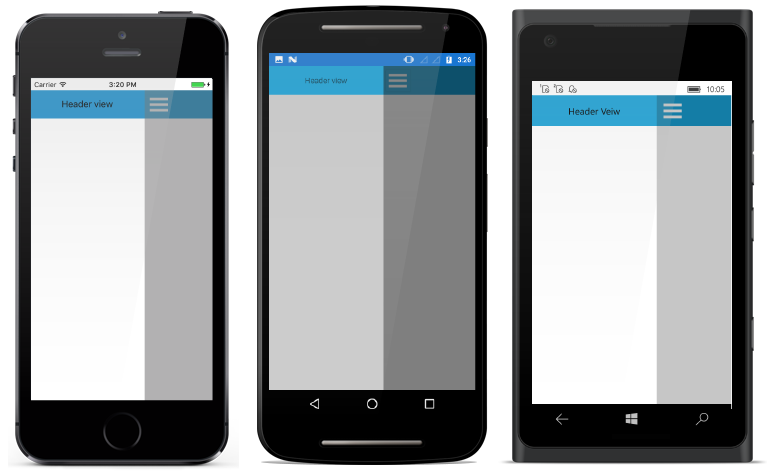
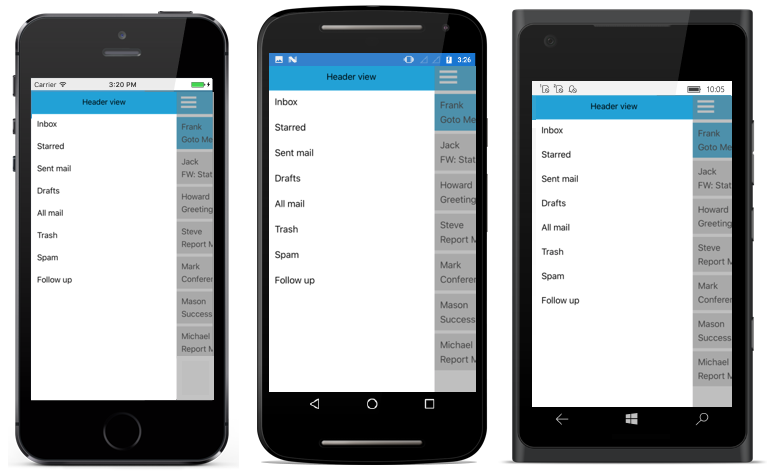
Added navigation drawer changes in UG

diff --git a/Xamarin/SfNavigationDrawer/Multi-drawer.md b/Xamarin/SfNavigationDrawer/Multi-drawer.md
@@ -8,19 +8,18 @@ documentation: ug
 ---
 
 
-# Multi drawer
+# Multi Drawer
 
-The navigation drawer allows the user to provide the multi drawer contents and each of them can be opened with their opening methods.
+The navigation drawer allows users to open the drawer on multiple sides with different toggle methods. The DrawerSettings class and its properties need to be used when users need to provide multiple drawer. The multiple drawers can be implemented using the following drawer settings.
 
-*	Default drawer settings
+* Default drawer settings
+* Secondary drawer settings
 
-*	Secondary drawer settings
-
-N> Header and Footer content are optional but Drawer content is mandatory to allocate space for the drawer.
+N> The header and footer content are optional, but the drawer content is mandatory to allocate space for the drawer.
 		
 ## Default drawer settings
 
-The user can provided the default drawer contents inside default drawer settings. The below code illustrates the code for default drawer settings.
+Implement the default drawer using the default drawer settings class. The following code sample demonstrates how to set the default drawer settings's properties inside the DrawerSettings class.
 
 {% tabs %}
 
@@ -55,13 +54,16 @@ navigationDrawer.DefaultDrawerSettings = defaultDrawerSettings;
 
 {% endtabs %}
 
-### Default drawer Header view
+N> The navigation drawer works with the value given for the properties inside the DrawerSettings class when using the default drawer settings.
 
-The header view of the default drawer can be provided using the below codes. 
+### Default drawer header view
+
+The header content can be provided to the default drawer using the `DrawerHeaderView` property inside the DrawerSettings class of DefaultDrawerSettings. The following code demonstrates how to set header content for the default drawer.
 
 {% tabs %}
 
 {% highlight xaml %}
+   <navigationdrawer:SfNavigationDrawer.DefaultDrawerSettings>
     <Grid BackgroundColor="#1aa1d6">
     <Grid.RowDefinitions>
     <RowDefinition Height="120"/>
@@ -70,12 +72,14 @@ The header view of the default drawer can be provided using the below codes.
         <Label Text="Syncfusion Xamarin Products"  HorizontalTextAlignment="Center" HorizontalOptions="Center" FontSize="20" TextColor="White"/>
      </Grid>
     </navigationdrawer:DrawerSettings.DrawerHeaderView>
+    </navigationdrawer:SfNavigationDrawer.DefaultDrawerSettings>
 
 
 {% endhighlight %}
 
 {% highlight c# %}
 
+    DrawerSettings defaultDrawerSettings = new DrawerSettings();
     Grid headerLayout = new Grid();
     headerLayout.BackgroundColor = Color.FromHex("#1aa1d6");
     Label header = new Label();
@@ -90,9 +94,9 @@ The header view of the default drawer can be provided using the below codes.
 
 {% endtabs %}      
 
-### Default drawer Content view
+### Default drawer content view
 
-The drawer content view of the default drawer can be provided using the below codes. 
+The drawer content can be provided to the default drawer using the `DrawerContentView` property inside the DrawerSettings class. The following code demonstrates how to set drawer content to the default drawer.
 
 {% tabs %}
 
@@ -109,6 +113,7 @@ The drawer content view of the default drawer can be provided using the below co
 {% endhighlight %}
 {% highlight c# %}
 
+DrawerSettings defaultDrawerSettings = new DrawerSettings();
 Grid contentLayout = new Grid();
 contentLayout.BackgroundColor = Color.FromHex("#1aa1d6");
 Label content = new Label();
@@ -123,14 +128,15 @@ defaultDrawerSettings.DrawerContentView = contentLayout;
 
 {% endtabs %}   
 
-### Default drawer Footer view
+### Default drawer footer view
 
-The footer view of the default drawer can be provided using the below codes. 
+The footer content can be provided to the default drawer using the `DrawerFooterView` property inside the DrawerSettings class of DefaultDrawerSettings. The following code demonstrates how to set footer content to the default drawer.
 
 {% tabs %}
 
 {% highlight xaml %}
     
+    <navigationdrawer:SfNavigationDrawer.DefaultDrawerSettings>   
     <navigationdrawer:DrawerSettings.DrawerFooterView>
     <Grid BackgroundColor="#1aa1d6">
     <Grid.RowDefinitions>
@@ -139,12 +145,14 @@ The footer view of the default drawer can be provided using the below codes.
         <Label Text="Close" Grid.Row="0" HorizontalTextAlignment="Center" HorizontalOptions="Center" FontSize="20" TextColor="White"/>
     </Grid>
     </navigationdrawer:DrawerSettings.DrawerFooterView>
+    </navigationdrawer:SfNavigationDrawer.DefaultDrawerSettings>
 
 
 {% endhighlight %}
 
 {% highlight c# %}
 
+DrawerSettings defaultDrawerSettings = new DrawerSettings();
 Grid footerLayout = new Grid();
 footerLayout.BackgroundColor = Color.FromHex("#1aa1d6");
 Label footer = new Label();
@@ -160,7 +168,7 @@ defaultDrawerSettings.DrawerFooterView = footerLayout;
 
 ## Secondary drawer settings   
 
-The user can provided the secondary drawer contents inside secondary drawer settings. The below code illustrates the code for secondary drawer settings.
+Implement the secondary drawer using the secondary drawer settings class. Its properties and functionalities are same as the default drawer. The secondary drawer can be set to different positions similar to the default drawer. The following code demonstrates how to set the secondary drawer settings's properties inside the DrawerSettings class.
 
 {% tabs %}
 
@@ -195,14 +203,17 @@ navigationDrawer.SecondaryDrawerSettings = secondaryDrawer;
 
 {% endtabs %}
 
-### Secondary drawer Header view
+N> When the default drawer and the secondary drawer are set to the same position, the default drawer will open on swiping.
 
-The header view of the secondary drawer can be provided using the below codes. 
+### Secondary drawer header view
+
+The header content can be provided to the secondary drawer using the `DrawerHeaderView` property inside the DrawerSettings class of SecondaryDrawerSettings. The following code demonstrates how to set the header content to the secondary drawer.
 
 {% tabs %}
 
 {% highlight xaml %}
     
+    <navigationdrawer:SfNavigationDrawer.SecondaryDrawerSettings>
     <navigationdrawer:DrawerSettings.DrawerHeaderView>
     <Grid BackgroundColor="#1aa1d6">
     <Grid.RowDefinitions>
@@ -211,11 +222,13 @@ The header view of the secondary drawer can be provided using the below codes.
         <Label Text="Syncfusion Enterprise solution" Grid.Row="0" HorizontalTextAlignment="Center" HorizontalOptions="Center" FontSize="20" TextColor="White"/>
     </Grid>
     </navigationdrawer:DrawerSettings.DrawerHeaderView>
+    </navigationdrawer:SfNavigationDrawer.SecondaryDrawerSettings>
 
 {% endhighlight %}
 
 {% highlight c# %}
 
+DrawerSettings secondaryDrawer = new DrawerSettings();
 Grid secondary = new Grid();
 secondary.BackgroundColor = Color.FromHex("#1aa1d6");
 Label header = new Label();
@@ -230,9 +243,9 @@ secondaryDrawer.DrawerHeaderView = secondary;
 
 {% endtabs %}      
 
-### Secondary drawer Content view
+### Secondary drawer content view
 
-The drawer content view of the secondary drawer can be provided using the below codes. 
+The drawer content can be provided to the default drawer using the `DrawerContentView` property inside the DrawerSettings class of SecondaryDrawerSettings. The following code demonstrates how to set the drawer content to the secondary drawer.
 
 {% tabs %}
 
@@ -251,6 +264,7 @@ The drawer content view of the secondary drawer can be provided using the below 
 
 {% highlight c# %}
 
+DrawerSettings secondaryDrawer = new DrawerSettings();
 Grid Layout = new Grid();
 Layout.BackgroundColor = Color.FromHex("#1aa1d6");
 Label content = new Label();
@@ -265,14 +279,15 @@ secondaryDrawer.DrawerContentView = Layout;
 
 {% endtabs %}   
 
-### Secondary drawer Footer view
+### Secondary drawer footer view
 
-The footer view of the secondary drawer can be provided using the below codes. 
+The footer content can be provided to the secondary drawer using the `DrawerFooterView` property inside the DrawerSettings class of SecondaryDrawerSettings. The following code demonstrates how to set footer content to the secondary drawer.
 
 {% tabs %}
 
 {% highlight xaml %}
     
+    <navigationdrawer:SfNavigationDrawer.SecondaryDrawerSettings>
     <navigationdrawer:DrawerSettings.DrawerFooterView>
     <Grid BackgroundColor="#1aa1d6">
     <Grid.RowDefinitions>
@@ -281,11 +296,13 @@ The footer view of the secondary drawer can be provided using the below codes.
         <Label Text="Close" Grid.Row="0" HorizontalTextAlignment="Center" HorizontalOptions="Center" FontSize="20" TextColor="White"/>
     </Grid>
     </navigationdrawer:DrawerSettings.DrawerFooterView>
+    </navigationdrawer:SfNavigationDrawer.SecondaryDrawerSettings>
 
 {% endhighlight %}
 
 {% highlight c# %}
 
+DrawerSettings secondaryDrawer = new DrawerSettings();
 Grid Layout = new Grid();
 Layout.BackgroundColor = Color.FromHex("#1aa1d6");
 Label footer = new Label();
@@ -300,5 +317,21 @@ secondaryDrawer.DrawerFooterView = Layout;
 
 {% endtabs %}   
 
-Note: The sample implementing multi drawer can be downloaded from this [link](http://www.syncfusion.com/downloads/support/directtrac/general/ze/NavigationDrawerSample_2-228312513)
+## Toggling method
+
+Users can toggle the secondary drawer using the `ToggleSecondaryDrawer` method. 
+
+{% highlight c# %} 
+
+navigationDrawer.ToggleSecondaryDrawer();
+
+{% endhighlight %}
+
+### Opening the drawer programmatically
+
+The `IsOpen` property in the DrawerSettings of SecondaryDrawerSettings is used to open or close the drawer programmatically.
+
+N> Users can open only one drawer at a time.
+
+Note: The sample for implementing multiple drawers can be downloaded from this [link](http://www.syncfusion.com/downloads/support/directtrac/general/ze/NavigationDrawerSample_2-228312513).
 

diff --git a/Xamarin/SfNavigationDrawer/Toggling-Drawer.md b/Xamarin/SfNavigationDrawer/Toggling-Drawer.md
@@ -12,7 +12,7 @@ Drawer can be toggled using
 
 *	IsOpen property
 
-*	ToggleDrawer/ ToggleSecondaryDrawer method
+*	ToggleDrawer method
 
 *	Swipe gesture
 
@@ -43,19 +43,9 @@ navigationDrawer.IsOpen = true;
 
 Using `ToggleDrawer` method,
 
-The user can toggle the drawer for both default drawer and secondary drawer using different toggle methods. The below code is used for toggling the default drawer using `ToggleDrawer`
-
 {% highlight c# %} 
 
 navigationDrawer.ToggleDrawer();
-
-{% endhighlight %}
-
-The user can toggle the secondary drawer using the `ToggleSecondaryDrawer` method
-
-{% highlight c# %} 
-
-navigationDrawer.ToggleSecondaryDrawer();
 
 {% endhighlight %}
 
